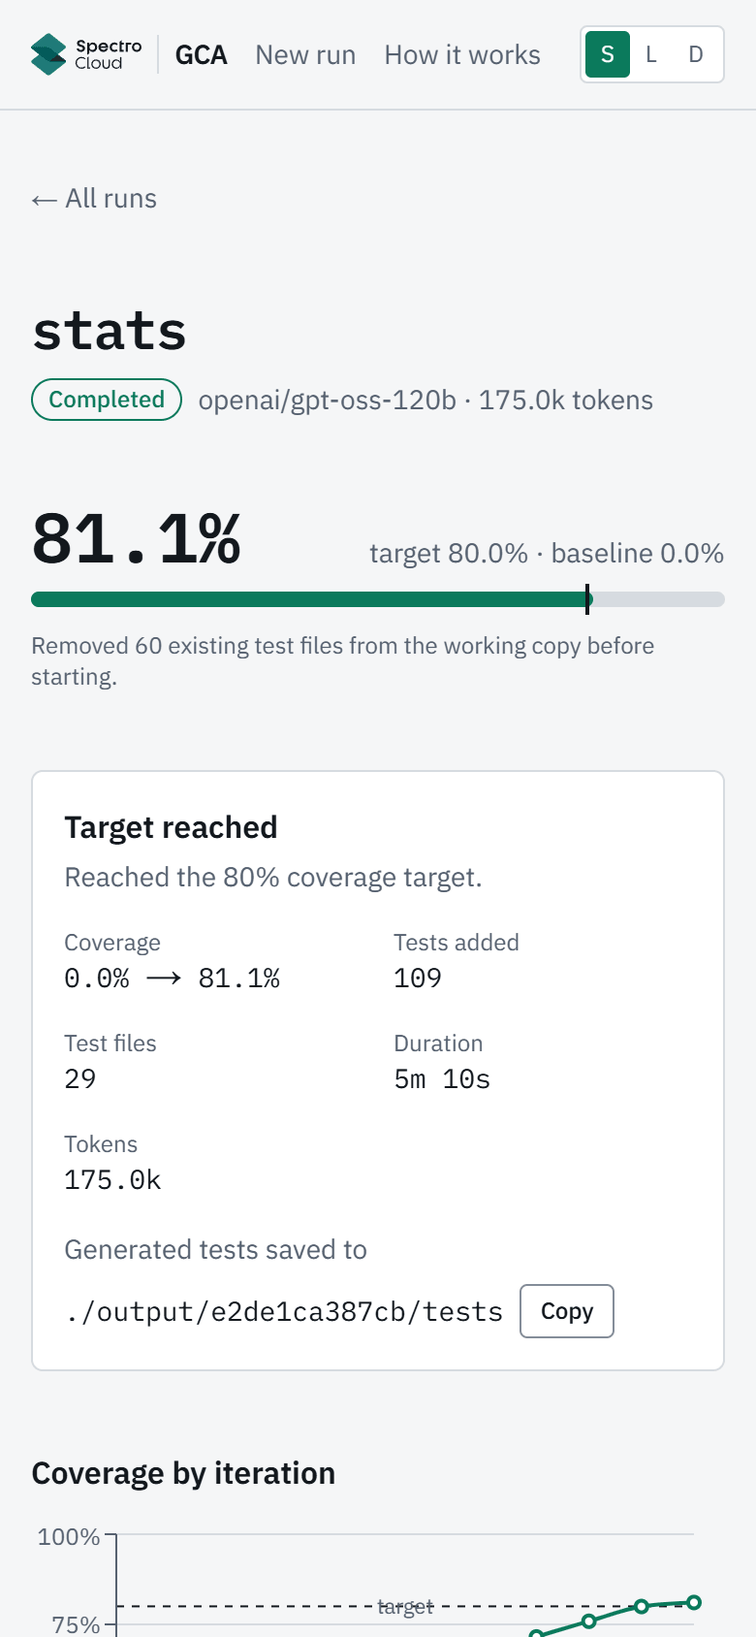
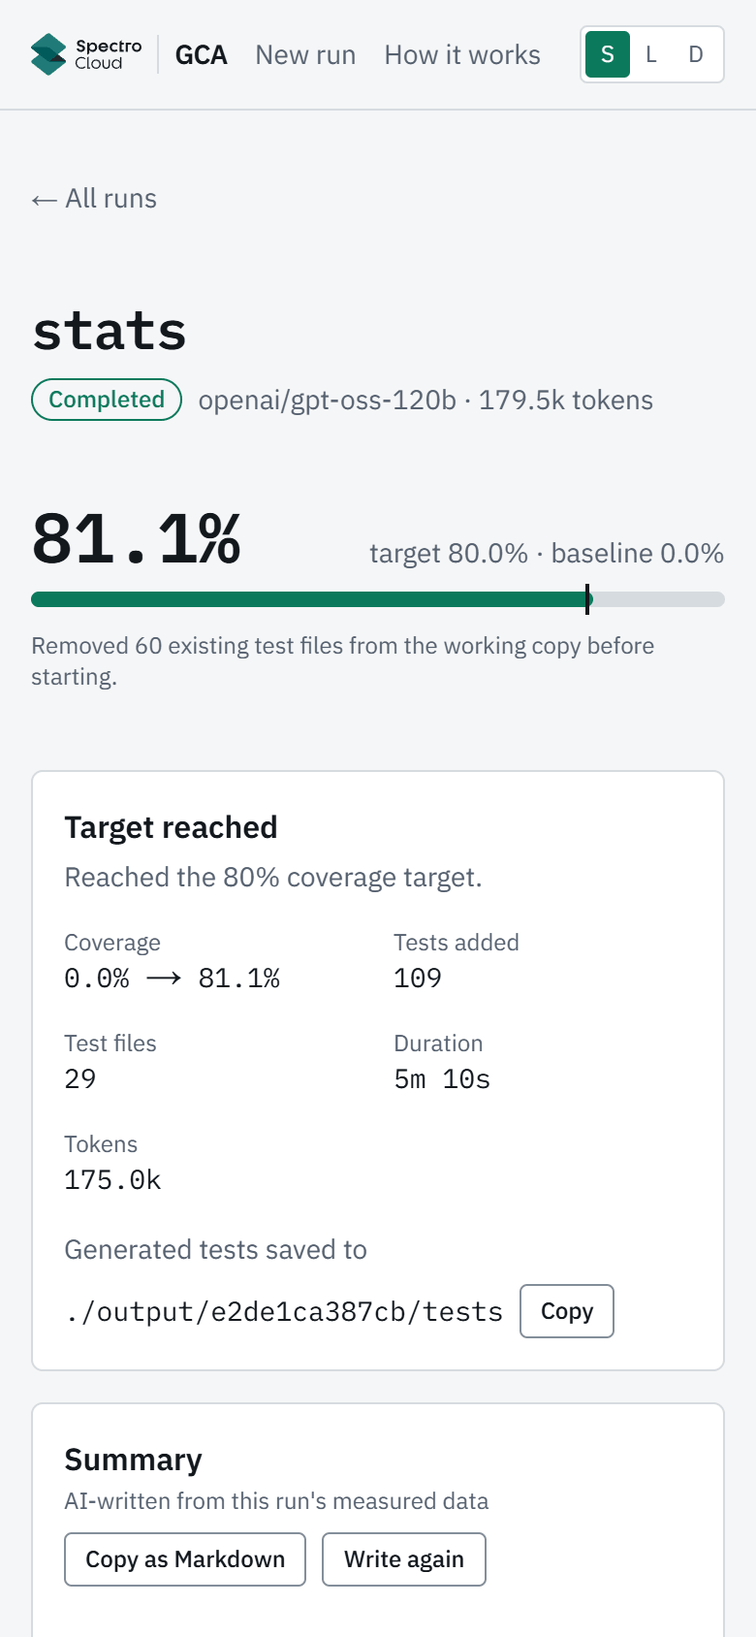
docs: Task 46 review fixes: example prices, busy summary, retaken run shots
.env.example ships the example Groq prices (the Optional header now says
"defaults unless noted"); README and spec describe the busy-until-summary
rule, Stop, the unit-aware grounding check, the split cost line and
summary_tokens. Retakes gallery-summary, gallery-dark, gallery-mobile,
gallery-runs-dark and gallery-summary-ai from the current build.

Changed region(s): [[0.0308, 0.8626, 0.6462, 1.0], [0.6769, 0.9858, 0.8308, 1.0], [0.8308, 0.955, 0.9231, 0.9858]]

diff --git a/docs/superpowers/specs/2026-10-08-go-coverage-agent-design.md b/docs/superpowers/specs/2026-10-08-go-coverage-agent-design.md
@@ -235,9 +235,9 @@ Formatting needs no separate step: `gohelper merge` writes `go/format` output, a
 ### 5.8 `jobs` and `events`
 
 - `Job`: id, inputs, status (`running|completed|failed|cancelled`), ordered `events`, latest `CoverageReport`, `Summary`.
-- `Event`: `{seq, ts, type, data}`. Types: `job_started`, `workspace_ready`, `baseline_measured`, `iteration_started`, `plan_created`, `llm_request` (`{index, file, role, reasoning_effort, attempt?}`, emitted right before each Groq request; `attempt` is the fix attempt for the Fixer; the UI shows "Waiting for Groq · fixer · medium reasoning · 1m 42s" on the waiting step, the item's status and the activity line until the matching `llm_call`, a `validation_result`, a `rate_limited` pause or the end of the job; older logs lack it and render as before), `llm_call` (`{index, file, role, prompt_tokens, completion_tokens, total_tokens, reasoning_effort}`; `reasoning_effort` is the effort the answer was produced at, after any step-down; older logs lack it), `rate_limited`, `candidate_generated`, `validation_result`, `tests_pruned`, `mechanical_repair` (`{index, file, repair, description}`; `repair` is 0 for an import-path cleanup, which is not a numbered repair, §6.4), `fix_attempt`, `candidate_accepted`, `candidate_rejected`, `iteration_completed`, `job_completed`, `job_failed`, `job_cancelled`, and after the run the summary events (§6.8): `llm_request` with `{role: "summarizer", reasoning_effort}` (no `index`/`file`), `summary_generated` (`{business, technical, dropped_sentences, tokens: {prompt_tokens, completion_tokens, total_tokens}, cost_usd?: {input, output, total}}`; `tokens` is the summary call's, `cost_usd` covers the run plus that call and is present only when both prices are set) and `summary_failed` (`{reason, message}`, reason `budget_exhausted`, `timeout`, `llm_error`, `llm_auth`, `llm_not_configured` or `internal_error`). `validation_result.kind` can be `llm_error`, with the LLM error text in `output`, `llm_timeout` when Groq did not answer within `GROQ_TIMEOUT_S` (§5.7; the UI says "Groq timed out"), or `prompt_too_large` when a Fixer prompt could not fit `MAX_PROMPT_TOKENS` even after degrading (§6.1; no model call was made; the UI says "Prompt too large (no model call)"). Either kind can also be a `candidate_rejected.reason`; older event logs with `llm_error` still render.
-- `JobManager`: in-memory, **one running job at a time** (409 otherwise). Each job is an `asyncio.Task`. Cancel sets a flag checked before every LLM call and command, and kills the active process group.
-- On finish, write `OUTPUT_DIR/<job_id>/`: the accepted `_test.go` files (repo-relative paths), `report.json`, `events.jsonl`, and `SUMMARY.md` when an AI summary was written (§6.8; `report.json` then gains `ai_summary`, or `ai_summary_error` when it failed). The UI shows this host path (`./output/<job_id>`) so users can copy the tests into their repo.
+- `Event`: `{seq, ts, type, data}`. Types: `job_started`, `workspace_ready`, `baseline_measured`, `iteration_started`, `plan_created`, `llm_request` (`{index, file, role, reasoning_effort, attempt?}`, emitted right before each Groq request; `attempt` is the fix attempt for the Fixer; the UI shows "Waiting for Groq · fixer · medium reasoning · 1m 42s" on the waiting step, the item's status and the activity line until the matching `llm_call`, a `validation_result`, a `rate_limited` pause or the end of the job; older logs lack it and render as before), `llm_call` (`{index, file, role, prompt_tokens, completion_tokens, total_tokens, reasoning_effort}`; `reasoning_effort` is the effort the answer was produced at, after any step-down; older logs lack it), `rate_limited`, `candidate_generated`, `validation_result`, `tests_pruned`, `mechanical_repair` (`{index, file, repair, description}`; `repair` is 0 for an import-path cleanup, which is not a numbered repair, §6.4), `fix_attempt`, `candidate_accepted`, `candidate_rejected`, `iteration_completed`, `job_completed`, `job_failed`, `job_cancelled`, and after the run the summary events (§6.8): `llm_request` with `{role: "summarizer", reasoning_effort}` (no `index`/`file`), `summary_generated` (`{business, technical, dropped_sentences, tokens: {prompt_tokens, completion_tokens, total_tokens}, cost_usd?: {run, summary, input, output, total}}`; `tokens` is the summary call's; `cost_usd` is present only when both prices are set: `run` is the run's own cost (what the text talks about), `summary` this call's, and `input` / `output` / `total` the two together) and `summary_failed` (`{reason, message}`, reason `budget_exhausted`, `timeout`, `llm_error`, `llm_auth`, `llm_not_configured`, `cancelled` or `internal_error`). `validation_result.kind` can be `llm_error`, with the LLM error text in `output`, `llm_timeout` when Groq did not answer within `GROQ_TIMEOUT_S` (§5.7; the UI says "Groq timed out"), or `prompt_too_large` when a Fixer prompt could not fit `MAX_PROMPT_TOKENS` even after degrading (§6.1; no model call was made; the UI says "Prompt too large (no model call)"). Either kind can also be a `candidate_rejected.reason`; older event logs with `llm_error` still render.
+- `JobManager`: in-memory, **one busy job at a time** (409 otherwise): a job is busy while it runs and, after `job_completed` / `job_cancelled`, until its AI summary is written or has failed (§6.8; the snapshot then has `writing_summary: true`, and the 409 message says the job is still writing its summary). Each job is an `asyncio.Task`. Cancel sets a flag checked before every LLM call and command, and kills the active process group; during the summary it cancels only the summary call.
+- On finish, write `OUTPUT_DIR/<job_id>/`: the accepted `_test.go` files (repo-relative paths), `report.json`, `events.jsonl`, and `SUMMARY.md` when an AI summary was written (§6.8; `report.json` then gains `ai_summary`, or `ai_summary_error` when it failed, and `summary_tokens`, every summary call's tokens, kept apart from the run's own `tokens`). The UI shows this host path (`./output/<job_id>`) so users can copy the tests into their repo.
 - **SSE:** `GET /api/jobs/{id}/events` always replays from seq 0, then tails. The client reducer ignores already-seen `seq`. That makes reconnects and refreshes safe without `Last-Event-ID`.
 
 ---
@@ -308,10 +308,10 @@ A fourth role, the **Summarizer** (§6.8), runs once after the loop and never to
 
 After a run ends with a report (`job_completed`, or `job_cancelled` after the baseline; never after a setup failure), and when the job option `write_summary` is on (default), an LLM writes a two-part summary from measured facts only.
 
-- **Facts (deterministic, `app/summary/facts.py`):** `RunFacts` is built from the `Summary` and the run's events up to its terminal event: repo, module (from `workspace_ready` packages), model, goal, baseline → final %, gain in points, stop reason and message, rounds, duration (s and min), tokens (prompt/completion/total), tokens per percentage point, LLM calls by role and reasoning effort, targets accepted/rejected with reason counts, first-check passes (Writer answers accepted on their first check), Fixer calls, mechanical repairs, pruned tests, timeouts, rate-limit waits (count and seconds), tests added (count and names), test files (count and names), the export folder `output/<id>/tests`, per-file before → after, the 5 lowest-covered files with uncovered statements (from the baseline's statement counts), the suspected bugs the Writer reported, and `cost_usd` (input/output/total) when both `GROQ_PRICE_*_PER_M` are set.
+- **Facts (deterministic, `app/summary/facts.py`):** `RunFacts` is built from the `Summary` and the run's events up to its terminal event: repo, module (from `workspace_ready` packages), model, goal, baseline → final %, gain in points, stop reason and message, rounds, duration (s and min), tokens (prompt/completion/total), tokens per percentage point, LLM calls by role and reasoning effort, targets accepted/rejected with reason counts, first-check passes (Writer answers accepted on their first check), Fixer calls, mechanical repairs, pruned tests, timeouts, rate-limit waits (count and seconds), tests added (count and names), test files (count and names), the export folder `output/<id>/tests`, per-file before → after, the 5 lowest-covered files with uncovered statements (from the baseline's statement counts), the suspected bugs the Writer reported, and `cost_usd` (input/output/total, the run only) when both `GROQ_PRICE_*_PER_M` are set.
 - **Call:** `Agents.summarize(facts)` with role `summarizer` at `GROQ_WRITER_REASONING_EFFORT`, strict JSON schema `RunSummary` (`business: {headline, outcome, efficiency, risks[], recommendation}`, `technical: {headline, what_was_tested, where_tests_live, gaps[{file, detail}], suspected_bugs[], rejected_or_failed, how_to_run, next_steps[]}`) and prompt `agents/prompts/summarizer.md` (business: a senior business analyst for stakeholders, no jargon; technical: a senior tech lead handing over to other teams, with real files and `go test ./...`). Hard rule: only numbers, files and test names from the facts. When the facts JSON does not fit `MAX_PROMPT_TOKENS`, unchanged files and all but 30 test names are left out (their counts stay). Same client as every call: timeout and retry rules, pacing, the daily ledger. The summary's tokens count toward the job's `max_llm_tokens` (checked before the call) and the daily budget.
-- **Grounding check (deterministic, `app/summary/grounding.py`):** every number token in the output (integers, decimals, percentages, thousands separators, `175K` / `1.2M`) must match a number in the facts (or in a fact's text) after rounding to the precision shown and K/M scaling; every `.go` file named must be in the facts' files and every `Test…` name in `tests_added`. A paragraph loses the failing sentences; a list item or gap that fails is dropped whole. `dropped_sentences` counts them.
-- **Order:** `job_completed` / `job_cancelled` first, so the result shows at once; then `llm_request` (summarizer) and `summary_generated` or `summary_failed`. The SSE stream stays open until the summary is written or has failed. A failure never changes the job's status.
+- **Grounding check (deterministic, `app/summary/grounding.py`):** every number in the output must match a fact of the same kind after rounding to the precision shown: dollar amounts (`$0.07`) only the cost facts, so none pass without prices; percentages (`81%`, `81 percent`, `81 points`, `81 pp`) only percentage facts; durations (`5.2 minutes`, `310s`, `two hours`, `an hour`) only the run's durations; `175K` / `1.2M` only token facts; other numbers (digits with thousands separators, number words such as `eleven` or `twenty-nine`, ordinals such as `11th`) the remaining facts (or a number in a fact's text). Multipliers (`3x`, `x3`, `3-fold`, `twice`, `doubled`, `half`) have no facts and always fail. Plain words (`each one`, `double-check`) and commands without numbers (`go test ./...`) are not numbers. Every `.go` path named must be a known file or a test file under `tests_dir`, and every `Test…` name must be in `tests_added`. A paragraph loses the failing sentences; a list item or gap that fails is dropped whole. `dropped_sentences` counts them. `technical.suspected_bugs` is replaced by the facts' own `Function: description` list.
+- **Order:** `job_completed` / `job_cancelled` first, so the result shows at once; then `llm_request` (summarizer) and `summary_generated` or `summary_failed`. The SSE stream stays open until the summary is written or has failed, and the job stays busy (no new job, no other summary) until then. Cancel during the summary sets the summary's own cancel event: the call stops at once and `summary_failed` has reason `cancelled`. A failure never changes the job's status. Tokens Groq billed for a failed summary call still count toward the job.
 - **Files:** `report.json` gains `ai_summary` (the event payload plus `model` and `generated_at`) or `ai_summary_error`; `SUMMARY.md` holds both sections, the note "AI-written from this run's measured data.", the generation date and the model. A later failure keeps an earlier summary.
 - **Again:** `POST /api/jobs/{id}/summary` writes it again for a finished job held in memory (§8); the events follow on the same stream, which reopens until the summary is done.
 
@@ -468,7 +468,7 @@ All under `/api`, JSON, Pydantic-validated. Errors: `{"error": {"code", "message
 | `GET /api/jobs/{id}` | Snapshot: status, inputs, report, iterations, summary |
 | `GET /api/jobs/{id}/events` | SSE; replays from seq 0, then tails |
 | `POST /api/jobs/{id}/cancel` | Cooperative cancel + process-group kill |
-| `POST /api/jobs/{id}/summary` | Write the AI summary (§6.8) again for a finished job held in memory → `202` with the job snapshot; the summary events follow on the job's event stream. 404 unknown job, 409 `job_running` (running, or a summary is being written), 409 `no_report` (failed before the baseline), 400 `llm_not_configured`. Cross-origin POSTs are refused like every write |
+| `POST /api/jobs/{id}/summary` | Write the AI summary (§6.8) again for a finished job held in memory → `202` with the job snapshot; the summary events follow on the job's event stream. 404 unknown job, 409 `job_running` (this or another job is running or writing a summary), 409 `no_report` (failed before the baseline), 400 `llm_not_configured`. Cross-origin POSTs are refused like every write |
 | `GET /api/jobs/{id}/files/{path}` | Content of one generated test file. The path must be in the job's generated-file list (no traversal) |
 
 **Repo path input:** containers can only see mounted paths. The user puts (or clones) repos into the host `./repos` folder, or sets `HOST_REPOS_DIR` to an **absolute** host path. Compose doesn't expand `~`, so the README shows `/Users/you/code`. The UI repo picker has two tabs: **Sample repos** (the six allowlisted libraries: stats, semver, xstrings, humanize, btree, decimal; click to download and select) and **Your folders** (a Choose a folder… button and drop area that upload a project to `/repos/uploads/<name>` via `POST /api/repos/upload`, the modules found under the mount, and one line on `HOST_REPOS_DIR` for large projects). There is no free-text path field.
@@ -502,7 +502,7 @@ Design intent: a calm, precise developer tool, not a generic dashboard. The visu
    - Test file viewer: file list + highlighted Go, with test plan scenarios.
    - Possible bugs found (if any).
    - Output location `./output/<job_id>` with a copy button.
-   - Summary (§6.8), under the summary card: tabs "For stakeholders" and "For engineering teams", the label "AI-written from this run's measured data", the estimated cost when prices are set, Copy as Markdown (the same Markdown as `SUMMARY.md`), and Write summary / Write again. States: writing (a Groq wait timer), done, failed (message and retry), off ("Summary was turned off for this run").
+   - Summary (§6.8), under the summary card: tabs "For stakeholders" and "For engineering teams", the label "AI-written from this run's measured data", the cost line "Run cost $X · summary $Y · total $Z (input …, output …)" when prices are set, Copy as Markdown (the same Markdown as `SUMMARY.md`), and Write summary / Write again. States: writing (a Groq wait timer and Stop), done, failed (message and retry), stopped, off ("Summary was turned off for this run"). A part the grounding check emptied says so. Run history keeps the run among the busy ones with "Writing summary…" and Stop summary.
 
 ### 9.2 Client data flow
 
@@ -561,7 +561,7 @@ volumes: { gocache: {} }
 
 ### 10.4 `.env.example`
 
-`GROQ_API_KEY=`, `GROQ_MODEL=openai/gpt-oss-120b`, `GROQ_WRITER_REASONING_EFFORT=medium`, `GROQ_FIXER_REASONING_EFFORT=medium`, `HOST_REPOS_DIR=./repos`, a commented `MAX_PROMPT_TOKENS=4500` for free-trial keys, and under Advanced the commented `GROQ_MAX_COMPLETION_TOKENS=65536`, `GROQ_TIMEOUT_S=240` and the upload limits `UPLOAD_MAX_FILES=3000`, `UPLOAD_MAX_BYTES=26214400`, `UPLOAD_MAX_FILE_BYTES=1048576`. Under Optional, the commented prices `GROQ_PRICE_INPUT_PER_M=0.15` and `GROQ_PRICE_OUTPUT_PER_M=0.60` (openai/gpt-oss-120b on Groq at the time of writing).
+`GROQ_API_KEY=`, `GROQ_MODEL=openai/gpt-oss-120b`, `GROQ_WRITER_REASONING_EFFORT=medium`, `GROQ_FIXER_REASONING_EFFORT=medium`, `HOST_REPOS_DIR=./repos`, a commented `MAX_PROMPT_TOKENS=4500` for free-trial keys, and under Advanced the commented `GROQ_MAX_COMPLETION_TOKENS=65536`, `GROQ_TIMEOUT_S=240` and the upload limits `UPLOAD_MAX_FILES=3000`, `UPLOAD_MAX_BYTES=26214400`, `UPLOAD_MAX_FILE_BYTES=1048576`. Under Optional (whose header says the values are the defaults unless noted), the example prices `GROQ_PRICE_INPUT_PER_M=0.15` and `GROQ_PRICE_OUTPUT_PER_M=0.60` (openai/gpt-oss-120b on Groq at the time of writing; not code defaults).
 
 ---
 

diff --git a/README.md b/README.md
@@ -103,7 +103,7 @@ The loop is plain, testable Python. The LLM only writes and fixes tests, and sum
 4. **Merge and validate.** A Go AST helper appends the tests to `<source>_test.go`. The candidate must pass the import guard, `go vet`, and `go test -count=2`, and the set of covered blocks must be a strict superset of the previous one.
 5. **Repair.** Failing assertions are pruned test by test; stray quotes or backslashes around import paths, forgotten imports, unqualified identifiers and reused test names are fixed mechanically; anything else goes to the Fixer LLM (up to 2 attempts). Rejected candidates are rolled back.
 6. **Stop** on target reached, marginal gains (less than `min_gain` points for `patience` iterations), max iterations, no remaining targets, token budget, or cancel. Artifacts are always written.
-7. **Summarize.** After the result is shown, one more LLM call writes two summaries from the run's measured facts (coverage, rounds, time, tokens, an estimated cost when `GROQ_PRICE_*_PER_M` are set, rejected targets, the least-covered files, suspected bugs): one **for stakeholders** (outcome, efficiency, risks, recommendation) and one **for engineering teams** (what was tested, where the tests are, gaps, how to run them, next steps). A deterministic check then drops any sentence whose numbers, files or test names are not in those facts. The run page shows both in tabs with Copy as Markdown and Write again, and they are saved as `output/<job_id>/SUMMARY.md` (and `ai_summary` in `report.json`). Turn it off with the "Write an AI summary at the end" checkbox in the advanced options.
+7. **Summarize.** After the result is shown, one more LLM call writes two summaries from the run's measured facts (coverage, rounds, time, tokens, an estimated cost when `GROQ_PRICE_*_PER_M` are set, rejected targets, the least-covered files, suspected bugs): one **for stakeholders** (outcome, efficiency, risks, recommendation) and one **for engineering teams** (what was tested, where the tests are, gaps, how to run them, next steps). A deterministic check then drops any sentence whose numbers (digits, number words, dollar amounts, percentages, durations, multipliers such as "3x"), files or test names are not in those facts, each number matched against facts of the same kind; suspected bugs are copied from the facts, not written by the model. The run counts as busy until its summary is written (a new run waits, and Cancel stops only the summary). The run page shows both in tabs with Copy as Markdown and Write again, and they are saved as `output/<job_id>/SUMMARY.md` (and `ai_summary` in `report.json`). Turn it off with the "Write an AI summary at the end" checkbox in the advanced options.
 
 **The UI.** The setup page has a **Runs** panel: a live card for a running job (with Cancel) and past runs with before to after coverage. The job page has an "← All runs" link. The header has a System / Light / Dark toggle (remembered per browser) and a **How it works** page. The Spectro Cloud logo in the navbar is there because this is a take-home for Spectro Cloud; it is not a Spectro Cloud product.
 
@@ -182,7 +182,7 @@ I ran the system end to end, spotted these problems, and decided the fixes. Clau
 </td>
 <td valign="top" width="50%">
 <a href="docs/screenshots/gallery-runs-dark.png"><img src="docs/screenshots/gallery-runs-dark.png" width="100%" alt="The review step of the New run wizard and the Run history panel in the dark theme"></a>
-<br><b>Review &amp; start, dark theme</b><br>Step 4 of 4: the chosen repository, the 80% target and default advanced options, each with an Edit link, then Start with the token budget beside it. Run history shows stats 0.0% to 81.1%, semver 1.4% to 83.5% and stats 0.0% to 100.0%.
+<br><b>Review &amp; start, dark theme</b><br>Step 4 of 4: the chosen repository, the 80% target and default advanced options with the AI summary on, each with an Edit link, then Start with the token budget beside it. Run history shows stats 0.0% to 81.1%, semver 1.4% to 83.5% and stats 0.0% to 100.0%.
 </td>
 </tr>
 <tr>
@@ -211,14 +211,14 @@ I ran the system end to end, spotted these problems, and decided the fixes. Clau
 <br><b>Generated tests</b><br>Each of the 29 accepted test files can be read with syntax-highlighted Go, here <code>correlation_test.go</code>.
 </td>
 <td valign="top" width="50%">
-<a href="docs/screenshots/gallery-dark.png"><img src="docs/screenshots/gallery-dark.png" width="100%" alt="Summary card, coverage chart and generated tests in the dark theme"></a>
-<br><b>Run page, dark theme</b><br>The Target reached card (0.0% to 81.1%, 109 tests in 29 files, 5m 10s, 175.0k tokens), the coverage chart and the generated tests in the dark theme.
+<a href="docs/screenshots/gallery-dark.png"><img src="docs/screenshots/gallery-dark.png" width="100%" alt="Target reached summary card and the AI summary below it, on the For stakeholders tab, in the dark theme"></a>
+<br><b>Run page, dark theme</b><br>The Target reached card (0.0% to 81.1%, 109 tests in 29 files, 5m 10s, 175.0k tokens) and, below it, the AI summary on its For stakeholders tab with the run / summary / total cost line, in the dark theme.
 </td>
 </tr>
 <tr>
 <td valign="top" width="50%">
 <a href="docs/screenshots/gallery-summary-ai.png"><img src="docs/screenshots/gallery-summary-ai.png" width="100%" alt="The Summary section of a finished stats run on the For stakeholders tab: a headline about coverage rising from 0% to 81.1%, then Outcome, Efficiency with an estimated cost, Risks and Recommendation, with Copy as Markdown and Write again buttons"></a>
-<br><b>AI summary</b><br>Under the summary card, two tabs: For stakeholders (shown: outcome, efficiency with the estimated cost, risks, recommendation) and For engineering teams (what was tested, where the tests are, how to run them, gaps, suspected bugs, next steps), with Copy as Markdown (the same text as <code>SUMMARY.md</code>) and Write again. No Groq call was made for this screenshot: the text was written by hand from run <code>e2de1ca387cb</code>'s facts, and a backend test checks that it passes the same grounding check as a real summary.
+<br><b>AI summary</b><br>Under the summary card, two tabs: For stakeholders (shown: outcome, efficiency with the cost line "Run cost $0.07 · summary $0.0013 · total $0.07", risks, recommendation) and For engineering teams (what was tested, where the tests are, how to run them, gaps, suspected bugs, next steps), with Copy as Markdown (the same text as <code>SUMMARY.md</code>) and Write again. No Groq call was made for this screenshot: the text was written by hand from run <code>e2de1ca387cb</code>'s facts, and a backend test checks that it passes the same grounding check as a real summary.
 </td>
 <td valign="top" width="50%"></td>
 </tr>
@@ -242,7 +242,7 @@ I ran the system end to end, spotted these problems, and decided the fixes. Clau
 </td>
 <td valign="top" width="33%">
 <a href="docs/screenshots/gallery-mobile.png"><img src="docs/screenshots/gallery-mobile.png" width="100%" alt="Run page on a 390 pixel wide phone screen"></a>
-<br><b>Run page on a phone</b><br>The 81.1% meter and the summary card in two columns.
+<br><b>Run page on a phone</b><br>The 81.1% meter, the summary card in two columns, and the top of the AI summary. The header total (179.5k tokens) includes the summary call.
 </td>
 <td valign="top" width="33%">
 <a href="docs/screenshots/gallery-howitworks-mobile.png"><img src="docs/screenshots/gallery-howitworks-mobile.png" width="100%" alt="How it works page on a 390 pixel wide phone screen"></a>
@@ -281,7 +281,7 @@ Environment variables (`.env`, same layout as `.env.example`). Only the key is r
 | `BACKEND_PORT` / `FRONTEND_PORT` | 8000 / 3000 | Host ports (loopback only); run `make up` again after changing |
 | `HOST_REPOS_DIR` | `./repos` | Host folder whose Go modules appear under "Your folders" |
 | `DAILY_TOKEN_BUDGET` | 2,000,000 | The app's own daily token cap (not a Groq limit), counted in `output/.usage.json`, reset at midnight UTC. Raise it freely on a paid key |
-| `GROQ_PRICE_INPUT_PER_M` / `GROQ_PRICE_OUTPUT_PER_M` | (unset) | Groq prices in USD per 1M input / output tokens. When both are set, the AI summary shows an estimated cost; unset shows none. `.env.example` has `0.15` / `0.60` commented out (openai/gpt-oss-120b on Groq at the time of writing; check console.groq.com pricing) |
+| `GROQ_PRICE_INPUT_PER_M` / `GROQ_PRICE_OUTPUT_PER_M` | (unset) | Groq prices in USD per 1M input / output tokens. When both are set, the AI summary shows an estimated cost; unset shows none. `.env.example` sets `0.15` / `0.60` as an example (openai/gpt-oss-120b on Groq at the time of writing; check console.groq.com pricing); remove both lines to hide the cost |
 | **Free-trial Groq key** (8K tokens/min, 200K/day): set all three | | |
 | `DAILY_TOKEN_BUDGET` | | Free trial: `190000` |
 | `MAX_PROMPT_TOKENS` | 12000 | Prompt-size cap per call. Free trial: `4500` |
